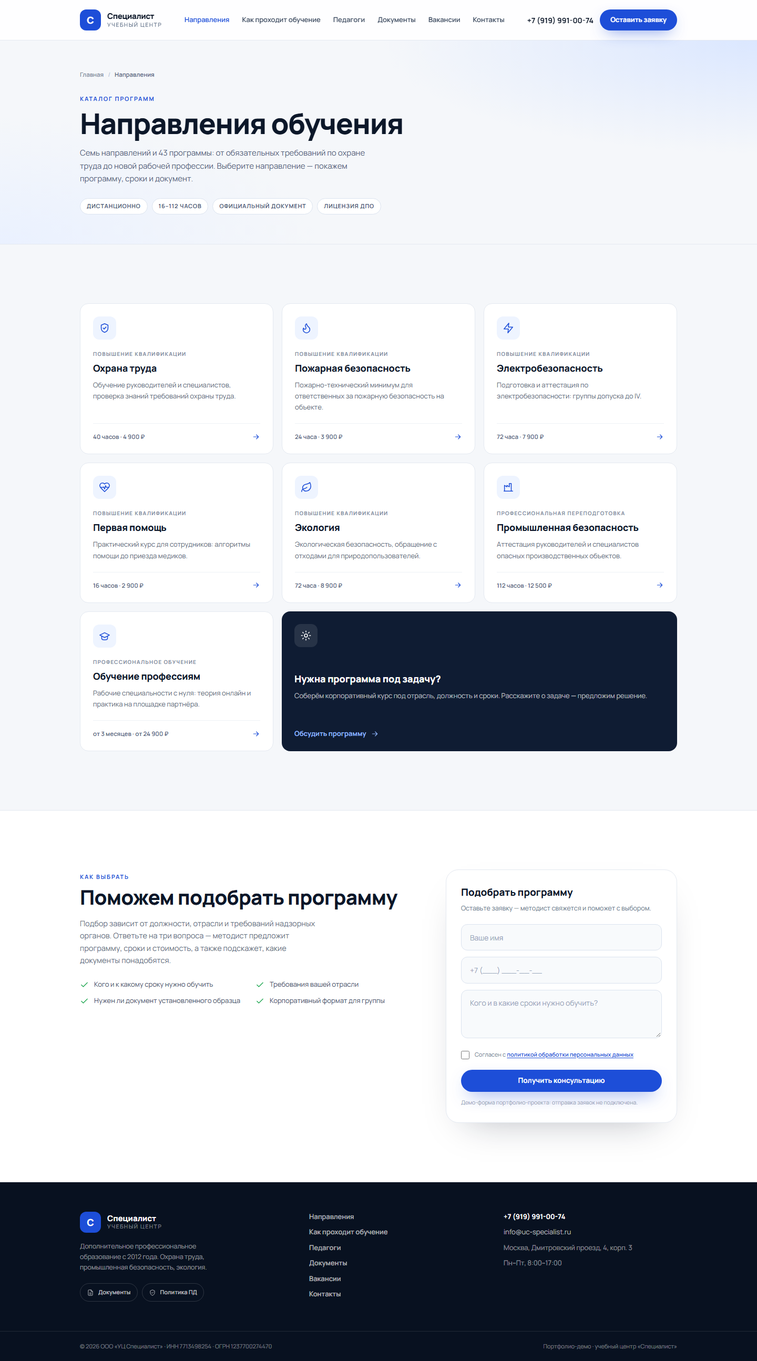
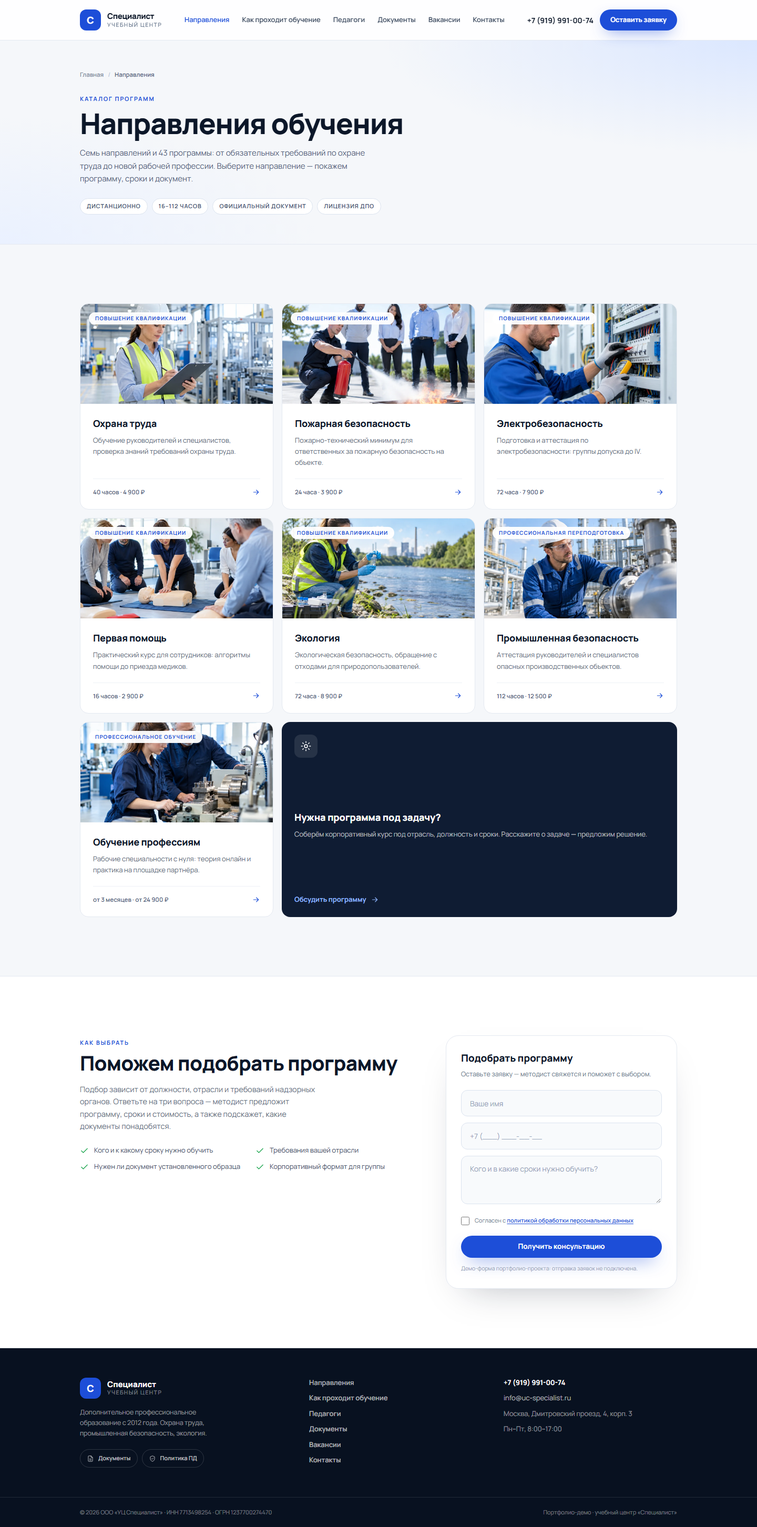
feat: добавить изображения и встроить их в макет
- hero, 7 картинок программ, портреты педагогов, OG-обложка (webp/jpg)
- фотографии в карточках направлений и на страницах программ
- портреты педагогов на главной
- og:image и Twitter Card, единый site URL
- tools: process-images.py, inspect-incoming.py; screenshot.mjs подгружает lazy-картинки
- README и docs обновлены, incoming/ в .gitignore

diff --git a/site/src/data/content.ts b/site/src/data/content.ts
@@ -16,6 +16,7 @@ export interface Program {
   short: string;
   description: string;
   icon: string;
+  image: string;
   hours: string;
   duration: string;
   format: string;
@@ -50,6 +51,7 @@ export interface StaffMember {
   name: string;
   role: string;
   note: string;
+  photo: string;
   initials: string;
 }
 
@@ -142,18 +144,21 @@ export const staff: StaffMember[] = [
     name: 'Снежкин Владимир Александрович',
     role: 'Генеральный директор',
     note: '20 лет в дополнительном образовании',
+    photo: '/images/staff/director.webp',
     initials: 'ВС',
   },
   {
     name: 'Кузнецова Ирина Павловна',
     role: 'Методист, эксперт по охране труда',
     note: 'Автор 30+ корпоративных программ',
+    photo: '/images/staff/methodist.webp',
     initials: 'ИК',
   },
   {
     name: 'Морозов Алексей Сергеевич',
     role: 'Преподаватель, инженер-энергетик',
     note: 'Эксперт по электробезопасности',
+    photo: '/images/staff/teacher.webp',
     initials: 'АМ',
   },
 ];
@@ -167,6 +172,7 @@ export const programs: Program[] = [
     description:
       'Программа для руководителей и специалистов, отвечающих за безопасность на производстве. Разбираем актуальные требования, порядок инструктажей, оценку рисков и документацию, которую проверяют инспекторы.',
     icon: 'shield',
+    image: '/images/programs/ohrana-truda.webp',
     hours: '40 часов',
     duration: '2 недели',
     format: 'Дистанционно',
@@ -195,6 +201,7 @@ export const programs: Program[] = [
     description:
       'Пожарно-технический минимум для руководителей и ответственных лиц. Учим читать требования, организовывать эвакуацию, вести документацию и готовиться к проверкам МЧС.',
     icon: 'flame',
+    image: '/images/programs/pozharnaya-bezopasnost.webp',
     hours: '24 часа',
     duration: '1 неделя',
     format: 'Дистанционно',
@@ -219,6 +226,7 @@ export const programs: Program[] = [
     description:
       'Подготовка электротехнического и электротехнологического персонала. Разбираем устройство электроустановок, защитные средства и безопасные приёмы работ, готовим к аттестации на группы до IV.',
     icon: 'zap',
+    image: '/images/programs/elektrobezopasnost.webp',
     hours: '72 часа',
     duration: '3 недели',
     format: 'Дистанционно',
@@ -243,6 +251,7 @@ export const programs: Program[] = [
     description:
       'Короткий практический курс для сотрудников организаций. Отрабатываем алгоритмы действий в типовых ситуациях: остановка кровотечения, сердечно-лёгочная реанимация, помощь при ожогах и переломах.',
     icon: 'heart',
+    image: '/images/programs/pervaya-pomoshch.webp',
     hours: '16 часов',
     duration: '3 дня',
     format: 'Дистанционно',
@@ -267,6 +276,7 @@ export const programs: Program[] = [
     description:
       'Для специалистов и руководителей, отвечающих за экологическую безопасность. Разбираем отчётность, обращение с отходами, нормативы и подготовку к проверкам надзорных органов.',
     icon: 'leaf',
+    image: '/images/programs/ekologiya.webp',
     hours: '72 часа',
     duration: '3 недели',
     format: 'Дистанционно',
@@ -291,6 +301,7 @@ export const programs: Program[] = [
     description:
       'Программа для руководителей и специалистов ОПО. Разбираем требования промышленной безопасности, идентификацию опасных объектов, производственный контроль и готовность к аварийным ситуациям.',
     icon: 'factory',
+    image: '/images/programs/promyshlennaya-bezopasnost.webp',
     hours: '112 часов',
     duration: '5 недель',
     format: 'Дистанционно',
@@ -315,6 +326,7 @@ export const programs: Program[] = [
     description:
       'Рабочие специальности для взрослых: без опыта, с трудоустройством или для развития внутри действующей компании. Теория — онлайн, практика — на оборудовании партнёрской площадки.',
     icon: 'cap',
+    image: '/images/programs/obuchenie-professiyam.webp',
     hours: 'от 3 месяцев',
     duration: 'от 12 недель',
     format: 'Онлайн + практика',

diff --git a/site/tools/process-images.py b/site/tools/process-images.py
@@ -1,0 +1,85 @@
+"""Обработка входящих изображений и раскладка по папкам site/public/images.
+
+Запуск: python site/tools/process-images.py
+
+- hero: кроп под пропорции карточки на главной (почти квадрат) + webp;
+- программы: 1200x800 webp, имена по слагам направлений;
+- педагоги: 800x800 webp;
+- OG-обложка: 1200x630 jpg для соцсетей.
+"""
+from __future__ import annotations
+
+from pathlib import Path
+
+from PIL import Image
+
+root = Path(__file__).resolve().parents[2]
+incoming = root / "incoming"
+public = root / "site" / "public" / "images"
+
+PROGRAM_MAP = {
+    "program-1.png": "elektrobezopasnost",
+    "program-2.png": "ohrana-truda",
+    "program-3.png": "pozharnaya-bezopasnost",
+    "program-4.png": "pervaya-pomoshch",
+    "program-5.png": "ekologiya",
+    "program-6.png": "promyshlennaya-bezopasnost",
+    "program-7.png": "obuchenie-professiyam",
+}
+
+STAFF_MAP = {
+    "staff-director.png": "director",
+    "staff-methodist.png": "methodist",
+    "staff-teacher.png": "teacher",
+}
+
+# Кроп героя: убираем пустую левую часть, оставляем группу, преподавателя и экран.
+HERO_CROP = (340, 0, 1440, 1024)
+HERO_SIZE = (1100, 1024)
+
+PROGRAM_SIZE = (1200, 800)
+STAFF_SIZE = (800, 800)
+OG_SIZE = (1200, 630)
+
+
+def save_webp(image: Image.Image, path: Path, quality: int = 84) -> None:
+    path.parent.mkdir(parents=True, exist_ok=True)
+    image.save(path, "WEBP", quality=quality, method=6)
+    print(f"{path.relative_to(root)} — {image.width}x{image.height}, {path.stat().st_size // 1024} КБ")
+
+
+def main() -> None:
+    # 1. Hero
+    with Image.open(incoming / "hero.png") as hero:
+        cropped = hero.convert("RGB").crop(HERO_CROP)
+        cropped = cropped.resize(HERO_SIZE, Image.LANCZOS)
+        save_webp(cropped, public / "hero.webp", quality=86)
+
+    # 2. Программы
+    for filename, slug in PROGRAM_MAP.items():
+        with Image.open(incoming / filename) as image:
+            resized = image.convert("RGB").resize(PROGRAM_SIZE, Image.LANCZOS)
+            save_webp(resized, public / "programs" / f"{slug}.webp")
+
+    # 3. Портреты
+    for filename, slug in STAFF_MAP.items():
+        with Image.open(incoming / filename) as image:
+            resized = image.convert("RGB").resize(STAFF_SIZE, Image.LANCZOS)
+            save_webp(resized, public / "staff" / f"{slug}.webp", quality=86)
+
+    # 4. OG-обложка (jpg — максимальная совместимость соцсетей)
+    with Image.open(incoming / "og-cover.png") as cover:
+        resized = cover.convert("RGB").resize(OG_SIZE, Image.LANCZOS)
+        target = public / "og-cover.jpg"
+        resized.save(target, "JPEG", quality=90, optimize=True, progressive=True)
+        print(f"{target.relative_to(root)} — {resized.width}x{resized.height}, {target.stat().st_size // 1024} КБ")
+
+    # 5. Удаляем неиспользуемый старый портрет из архива
+    legacy = public / "img.webp"
+    if legacy.exists():
+        legacy.unlink()
+        print("удалён старый site/public/images/img.webp")
+
+
+if __name__ == "__main__":
+    main()

diff --git a/site/tools/inspect-incoming.py b/site/tools/inspect-incoming.py
@@ -1,0 +1,54 @@
+"""Проверка входящих изображений и контактный лист для просмотра.
+
+Запуск: python site/tools/inspect-incoming.py
+"""
+from __future__ import annotations
+
+import glob
+from pathlib import Path
+
+from PIL import Image, ImageDraw, ImageFont
+
+root = Path(__file__).resolve().parents[2]
+incoming = root / "incoming"
+out = root / "shots" / "incoming-sheet.png"
+
+files = sorted(incoming.glob("*.png")) + sorted(incoming.glob("*.jpg"))
+print(f"Файлов: {len(files)}")
+for path in files:
+    with Image.open(path) as image:
+        print(f"{path.name:26} {image.width}x{image.height} {image.mode}")
+
+columns = 3
+thumb_w = 520
+pad = 16
+label_h = 34
+
+thumbs = []
+for path in files:
+    with Image.open(path) as image:
+        ratio = thumb_w / image.width
+        thumb = image.convert("RGB").resize((thumb_w, max(1, int(image.height * ratio))))
+        canvas = Image.new("RGB", (thumb_w, thumb.height + label_h), "white")
+        canvas.paste(thumb, (0, 0))
+        draw = ImageDraw.Draw(canvas)
+        try:
+            font = ImageFont.truetype("arial.ttf", 20)
+        except OSError:
+            font = ImageFont.load_default()
+        draw.text((8, thumb.height + 6), f"{path.name} ({image.width}x{image.height})", fill="black", font=font)
+        thumbs.append(canvas)
+
+rows = (len(thumbs) + columns - 1) // columns
+cell_h = max(t.height for t in thumbs) + pad
+sheet = Image.new("RGB", (columns * (thumb_w + pad) + pad, rows * cell_h + pad), "#e5e7eb")
+
+for index, thumb in enumerate(thumbs):
+    row, col = divmod(index, columns)
+    x = pad + col * (thumb_w + pad)
+    y = pad + row * cell_h
+    sheet.paste(thumb, (x, y))
+
+out.parent.mkdir(exist_ok=True)
+sheet.save(out)
+print(f"Контактный лист: {out} ({sheet.width}x{sheet.height})")

diff --git a/site/docs/image-prompts.md b/site/docs/image-prompts.md
@@ -1,0 +1,141 @@
+# Промты для генерации изображений
+
+Набор картинок для современной версии сайта учебного центра «Специалист».
+Сейчас на сайте есть только один старый hero-рисунок из архива, портрет и CSS-иконки —
+фотографии сильно поднимут уровень портфолио-проекта.
+
+## Общая стилистика (добавляй к каждому фото-промту)
+
+> professional corporate photography for an adult education center, bright airy interior,
+> soft natural daylight, light blue and white color palette with subtle deep-blue accents,
+> realistic, clean, modern, shallow depth of field, 35mm lens, high detail,
+> no text, no letters, no logos, no watermarks, no UI overlays, no cartoons
+
+**Негативный промт (общий):**
+
+> text, letters, words, logo, watermark, signature, UI, screenshot, cartoon, illustration,
+> 3d render, oversaturated, cluttered, dark, low quality, deformed faces, extra fingers,
+> bad anatomy, distorted hands, collage
+
+**Параметры:** Midjourney — `--ar 3:2 --style raw --v 6.1`; DALL·E 3 / Flux — просто текст промта.
+Генерируй по 2 варианта каждого кадра и оставляй тот, где нет текста и искажённых лиц.
+
+---
+
+## 1. Hero главной страницы — обязательно
+
+**Файл:** `hero.webp` · **Пропорции:** 3:2 · **Размер:** 1600×1067+
+**Где:** большой блок на главной. Важно: группа справа, слева пустое место под текст и карточку.
+
+```text
+Wide-angle photograph of a bright modern training room: a small group of adult professionals
+(ages 30–50, diverse, business casual) sitting at laptops during an online professional
+development course, a friendly female instructor in her 40s standing beside a large wall screen,
+soft daylight from large windows, light blue and white palette with deep-blue accents,
+the group is positioned on the right side of the frame, clean negative space on the left,
+shallow depth of field, realistic corporate photography, 3:2
+```
+
+## 2. Портреты педагогов — обязательно (3 шт., один стиль)
+
+Квадратные, светлый фон, одинаковая студия и свет. Люди вымышленные.
+
+**Файл:** `staff-director.webp` · 1:1 · 800×800
+
+```text
+Corporate portrait photograph of a friendly 55-year-old man with short grey hair and a neat
+beard, light-blue business shirt, warm confident smile, looking slightly off-camera,
+bright light-grey studio background with a soft blue gradient, professional headshot,
+softbox lighting, sharp focus, 1:1
+```
+
+**Файл:** `staff-methodist.webp` — женщина 40–45 лет, методист
+
+```text
+Corporate portrait photograph of a friendly 42-year-old woman with shoulder-length light-brown
+hair, business casual blazer over a white top, warm smile, looking at the camera,
+bright light-grey studio background with a soft blue gradient, professional headshot,
+softbox lighting, sharp focus, 1:1
+```
+
+**Файл:** `staff-teacher.webp` — мужчина 45–50 лет, инженер-энергетик
+
+```text
+Corporate portrait photograph of a friendly 48-year-old man with short dark hair and glasses,
+dark-blue business shirt without tie, calm confident expression, looking at the camera,
+bright light-grey studio background with a soft blue gradient, professional headshot,
+softbox lighting, sharp focus, 1:1
+```
+
+## 3. Изображения направлений — обязательно (7 шт.)
+
+**Формат:** 3:2, 1200×800, файлы `program-*.webp`. Используются на карточках каталога и в шапке
+страницы программы. Стиль — та же «съёмка», светлые и чистые кадры.
+
+| Направление | Файл | Промт (дополняй стилистикой сверху) |
+|---|---|---|
+| Охрана труда | `program-ohrana-truda.webp` | `Photograph of a safety engineer in a white hard hat and reflective vest holding a clipboard and checking a checklist at a modern manufacturing facility, bright industrial interior, blue safety accents, shallow depth of field, 3:2` |
+| Пожарная безопасность | `program-pozharnaya-bezopasnost.webp` | `Fire safety training session: a man in a dark uniform demonstrating the use of a red fire extinguisher to a small group of employees outdoors on a bright day, realistic corporate photo, 3:2` |
+| Электробезопасность | `program-elektrobezopasnost.webp` | `Close-up of an electrician in blue workwear and protective gloves inspecting a modern electrical panel with a multimeter, bright technical room, shallow depth of field, 3:2` |
+| Первая помощь | `program-pervaya-pomoshch.webp` | `First aid training: an instructor demonstrating CPR on a training manikin in a bright classroom, several adult employees watching and practising, realistic corporate photo, 3:2` |
+| Экология | `program-ekologiya.webp` | `Environmental specialist in a high-visibility vest taking a water sample from a river in a green landscape, industrial facility blurred in the distance, bright daylight, 3:2` |
+| Промышленная безопасность | `program-promyshlennaya-bezopasnost.webp` | `Industrial safety engineer in a hard hat and safety glasses inspecting a pipeline at a modern chemical plant, bright daylight, blue overalls, realistic industrial photography, 3:2` |
+| Обучение профессиям | `program-obuchenie-professiyam.webp` | `Vocational training workshop: a young adult learning to work on a metal lathe under supervision of an experienced mentor, bright modern workshop, realistic photography, 3:2` |
+
+## 4. OG-обложка для соцсетей — обязательно
+
+**Файл:** `og-cover.png` · 1200×630. Текст и логотип наложу кодом — нужен только фон,
+поэтому в кадре не должно быть букв.
+
+```text
+Abstract minimal background for a social media cover: smooth deep-blue to light-blue gradient,
+subtle thin geometric lines and a soft light glow, clean spacious composition with empty area
+in the center-left for a headline, no text, no letters, modern corporate brand style, 1200x630
+```
+
+## 5. Дополнительные кадры — по желанию
+
+| Файл | Где | Промт |
+|---|---|---|
+| `team.webp` (3:2) | секция «Почему нам доверяют» | `Small team meeting in a bright modern office: three colleagues discussing an education programme at a table with laptops and printed documents, warm natural light, blue accents, realistic corporate photo, 3:2` |
+| `online-learning.webp` (3:2) | блок «Как проходит обучение» | `Close-up over-the-shoulder photo of an adult learner taking notes in a notebook next to a laptop with a blurred online course interface, home office, soft daylight, shallow depth of field, no readable text, 3:2` |
+| `certificate.webp` (3:2) | шаг «Документ» | `Close-up of hands receiving an official certificate folder across a light desk in a bright office, shallow depth of field, realistic corporate photo, 3:2` |
+| `office.webp` (3:2) | страница «Контакты» | `Modern bright reception area of a small educational center: light wood desk, blue accent wall, plants, soft daylight, clean interior photography, no people, 3:2` |
+
+---
+
+## Куда складывать
+
+Создай папку `incoming/` в корне репозитория и положи туда файлы с именами из таблиц
+(можно PNG/JPG — конвертирую и оптимизирую сам). После этого я:
+
+1. сконвертирую в WebP/AVIF, обрежу под нужные пропорции и сгенерирую ретина-версии;
+2. заменю старый hero-рисунок, добавлю фото на карточки и страницы программ;
+3. заведу поле `photo` в контенте педагогов и подставлю портреты;
+4. добавлю `og:image` и Twitter Card в `BaseLayout`;
+5. пересоберу, пересниму скриншоты и покажу результат.
+
+## Если нужна не фотография, а иллюстрация
+
+Замени блок «Общая стилистика» на:
+
+> modern flat vector illustration, clean minimal corporate style, light blue and white palette,
+> deep-blue accents, soft gradients, geometric shapes, no text, no letters, consistent style
+
+и добавь `--ar` с нужными пропорциями. Фотографии для такого сайта предпочтительнее:
+они повышают доверие и лучше смотрятся в портфолио.
+---
+
+## Статус: изображения получены и интегрированы
+
+Сгенерированные файлы обработаны скриптом `site/tools/process-images.py` и встроены в сайт:
+
+- `hero.png` → `site/public/images/hero.webp` (кроп под карточку главной);
+- `program-1…7.png` → `site/public/images/programs/*.webp` по направлениям
+  (нумерация не совпадала с порядком направлений — сопоставлено по содержимому:
+  1 — электробезопасность, 2 — охрана труда, 3 — пожарная безопасность,
+  4 — первая помощь, 5 — экология, 6 — промышленная безопасность, 7 — обучение профессиям);
+- `staff-*.png` → `site/public/images/staff/{director,methodist,teacher}.webp`;
+- `og-cover.png` → `site/public/images/og-cover.jpg` (1200×630, подключена в Open Graph и Twitter Card).
+
+Исходники PNG остаются в `incoming/` и не коммитятся.
